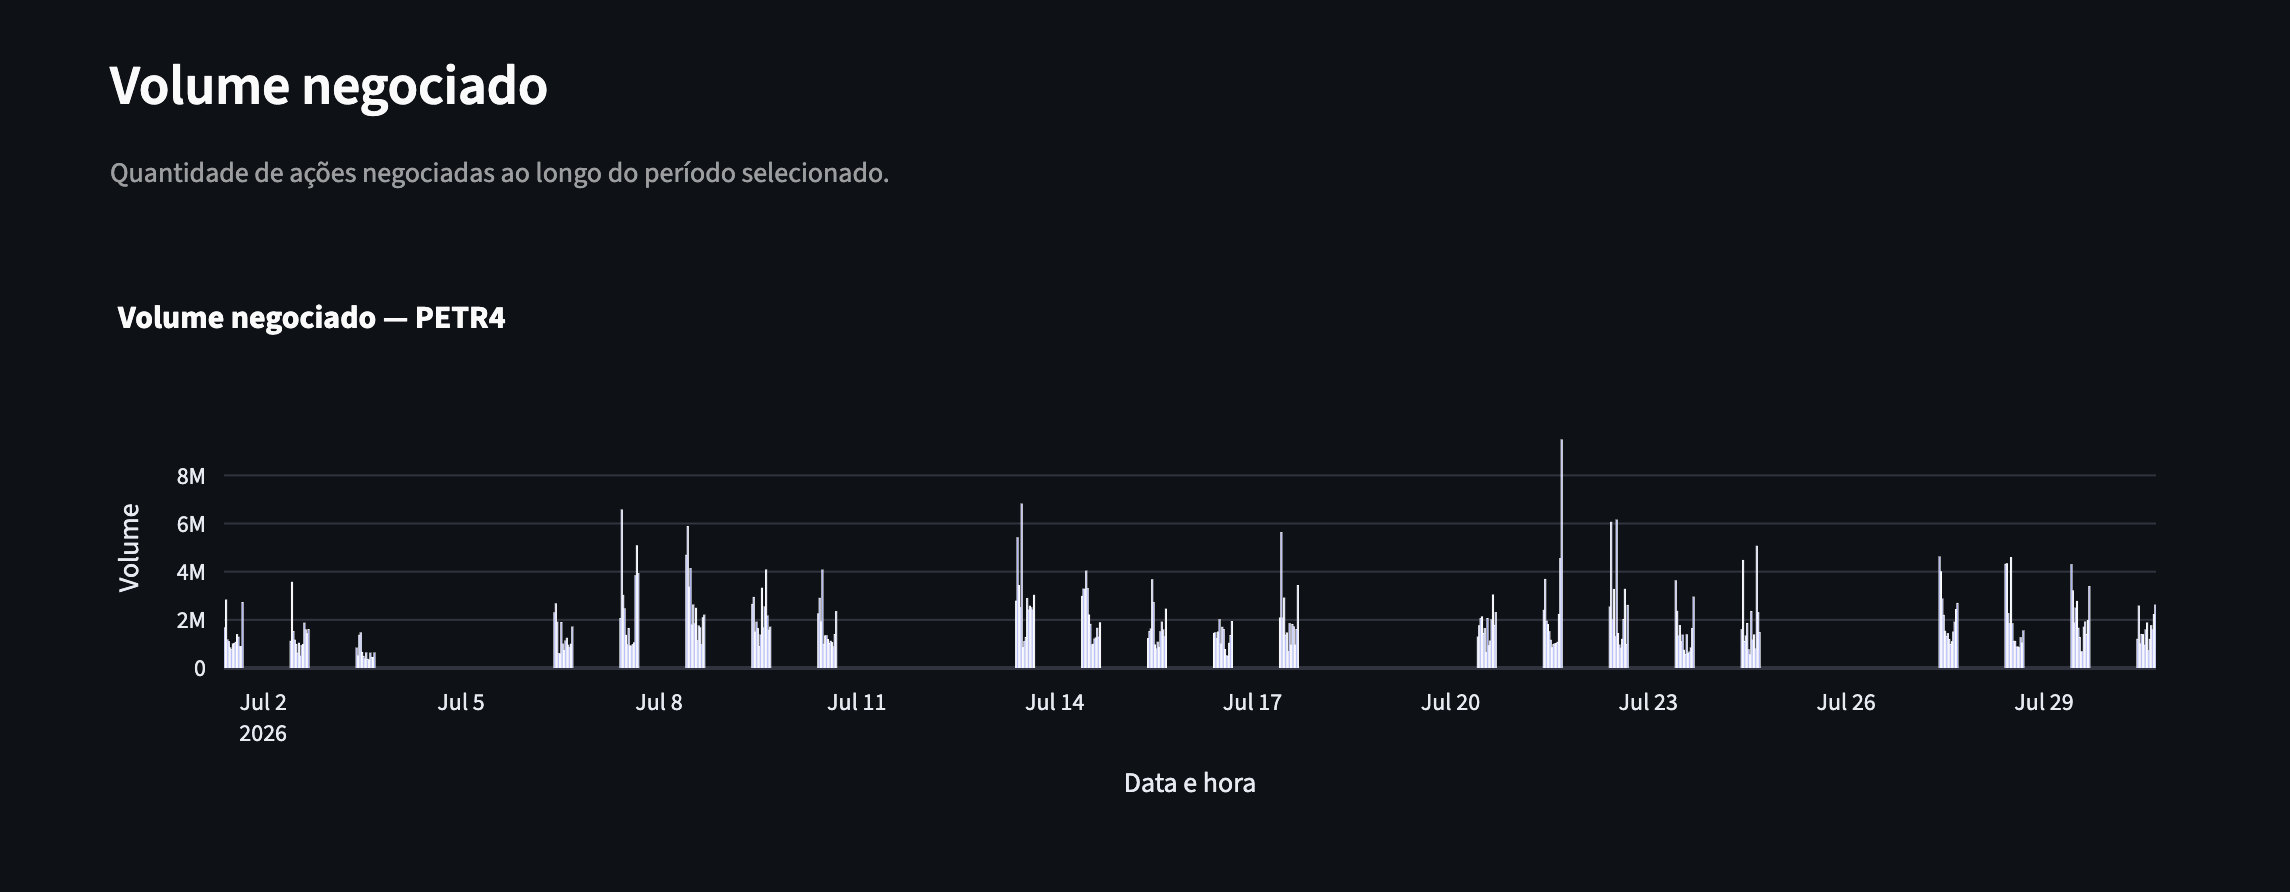
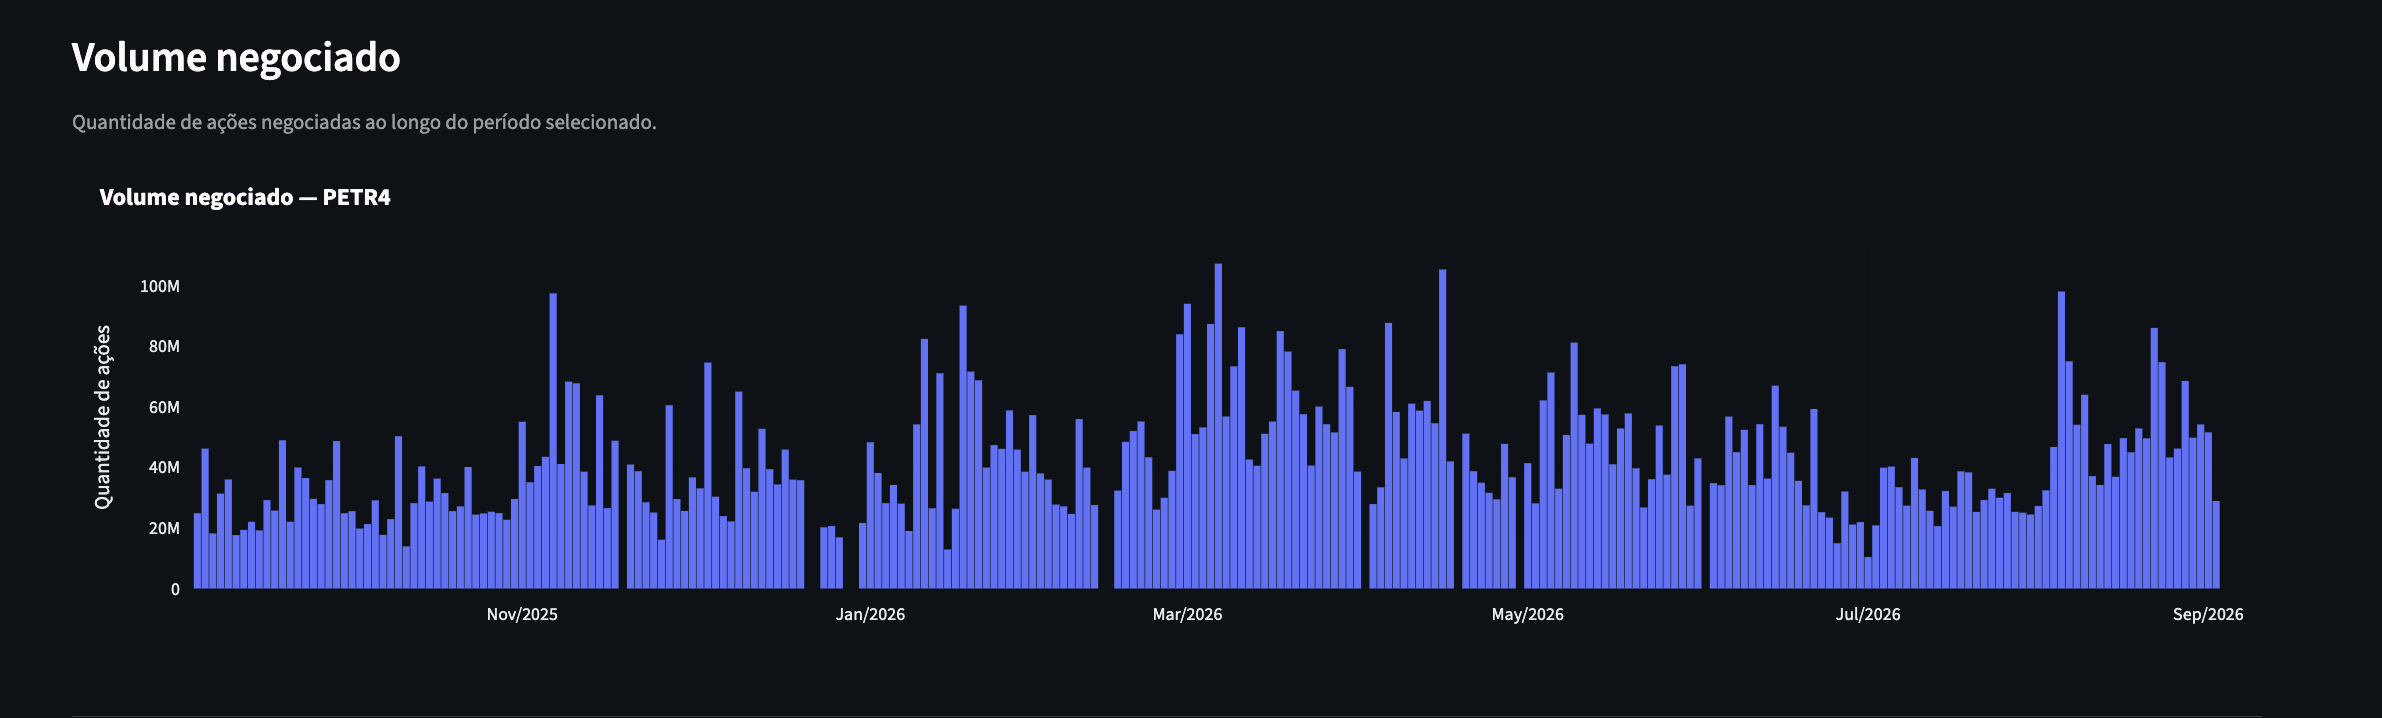
Atualiza README e imagens do B3 Insight

diff --git a/README.md b/README.md
@@ -1,217 +1,151 @@
 # B3 Insight
 
-Dashboard interativo desenvolvido em Python para análise de ações negociadas na B3.
+Dashboard interativo desenvolvido em **Python** para análise de ações negociadas na B3.
 
 O projeto permite consultar dados históricos de ações brasileiras, visualizar indicadores de desempenho, analisar gráficos financeiros e comparar o desempenho do ativo com o Ibovespa.
 
+🔗 **Aplicação online:** https://b3-insight.streamlit.app/
+
+---
+
 ## Dashboard
 
-![Dashboard](imagens/dashboard.png)
+Visão geral da aplicação com indicadores do período e informações da empresa.
 
-## Comparação com o Ibovespa
+![Dashboard B3 Insight](imagens/dashboard.png)
 
-![Comparação](imagens/comparacao.png)
+---
+
+## Análise gráfica
+
+Visualização da evolução do preço por meio de gráfico **Candlestick**, acompanhado das médias móveis de 20 e 50 períodos (**MM20 e MM50**).
+
+![Gráfico Candlestick](imagens/candlestick.png)
+
+---
 
 ## Volume negociado
 
-![Volume](imagens/volume.png)
+Visualização do volume de ações negociadas ao longo do período selecionado.
 
-## Sobre o projeto
+![Volume negociado](imagens/volume.png)
 
-O B3 Insight é um projeto pessoal desenvolvido para aplicar conhecimentos de Python, análise de dados e visualização de informações no contexto do mercado financeiro.
+---
 
-A aplicação utiliza dados do Yahoo Finance e apresenta as informações em um dashboard desenvolvido com Streamlit. O usuário pode informar o ticker de uma ação negociada na B3, selecionar o período desejado e visualizar indicadores, gráficos e informações da empresa.
+## Comparação com o Ibovespa
 
-O objetivo do projeto é facilitar a análise de ativos por meio de uma interface simples, organizada e interativa.
+Comparação do desempenho da ação selecionada com o índice **Ibovespa**, utilizando séries normalizadas para facilitar a análise relativa.
+
+![Comparação com o Ibovespa](imagens/comparacao.png)
+
+---
 
 ## Funcionalidades
 
 - Consulta de ações negociadas na B3
-- Seleção do período de análise
-- Exibição da última cotação
-- Cálculo da variação percentual
-- Identificação do preço máximo e mínimo
-- Cálculo do volume negociado
-- Exibição de informações da empresa
-- Cálculo das médias móveis de 20 e 50 períodos
-- Gráfico de candlestick
-- Gráfico de volume
+- Seleção de diferentes períodos de análise
+- Indicadores de cotação, variação, máxima, mínima e volume
+- Informações da empresa
+- Gráfico Candlestick
+- Médias móveis MM20 e MM50
+- Análise de volume negociado
 - Comparação de desempenho com o Ibovespa
-- Visualização dos dados históricos
-- Download dos dados em formato CSV
+- Visualização de dados históricos
+- Exportação dos dados para CSV
+
+---
 
 ## Tecnologias utilizadas
 
 - Python
-- Streamlit
 - Pandas
-- NumPy
 - Plotly
+- Streamlit
 - yfinance
+- Git
+- GitHub
+
+---
 
 ## Estrutura do projeto
 
 ```text
 B3-Insight/
-│
 ├── dados/
-│   └── b3_insight.csv
-│
 ├── imagens/
 │   ├── dashboard.png
-│   ├── comparacao.png
-│   └── volume.png
-│
-├── notebooks/
-│
+│   ├── candlestick.png
+│   ├── volume.png
+│   └── comparacao.png
 ├── src/
 │   ├── app.py
 │   ├── config.py
 │   ├── dados.py
 │   ├── graficos.py
 │   └── indicadores.py
-│
 ├── .gitignore
 ├── README.md
 └── requirements.txt
 ```
 
-### Organização dos arquivos
-
-| Arquivo | Responsabilidade |
-|---|---|
-| `app.py` | Interface do dashboard e fluxo principal da aplicação |
-| `config.py` | Configurações gerais do projeto |
-| `dados.py` | Coleta, preparação e limpeza dos dados |
-| `indicadores.py` | Cálculo dos indicadores e formatação dos resultados |
-| `graficos.py` | Construção dos gráficos interativos |
+---
 
 ## Como executar o projeto
 
-### 1. Clone o repositório
+Clone o repositório:
 
 ```bash
 git clone https://github.com/nataliaferreira-DS/B3-Insight.git
 ```
 
-### 2. Entre na pasta do projeto
+Entre na pasta do projeto:
 
 ```bash
 cd B3-Insight
 ```
 
-### 3. Crie um ambiente virtual
-
-No macOS ou Linux:
+Crie um ambiente virtual:
 
 ```bash
 python3 -m venv .venv
 ```
 
-No Windows:
-
-```bash
-python -m venv .venv
-```
-
-### 4. Ative o ambiente virtual
-
-No macOS ou Linux:
+Ative o ambiente virtual no macOS/Linux:
 
 ```bash
 source .venv/bin/activate
 ```
 
-No Windows:
+Instale as dependências:
 
 ```bash
-.venv\Scripts\activate
+python -m pip install -r requirements.txt
 ```
 
-### 5. Instale as dependências
+Execute a aplicação:
 
 ```bash
-pip install -r requirements.txt
+python -m streamlit run src/app.py
 ```
 
-### 6. Execute a aplicação
+---
 
-```bash
-streamlit run src/app.py
-```
+## Dados
 
-Após a execução, o Streamlit abrirá automaticamente o dashboard no navegador.
+Os dados de mercado são obtidos através da biblioteca **yfinance**.
 
-## Como utilizar
+Os dados exibidos podem sofrer atrasos ou alterações de acordo com a disponibilidade da fonte e são utilizados neste projeto para fins de estudo e análise.
 
-1. Informe o ticker da ação desejada.
-2. Escolha o período de análise.
-3. Clique em **Analisar ação**.
-4. Visualize os indicadores financeiros.
-5. Analise os gráficos.
-6. Consulte as informações da empresa.
-7. Faça o download dos dados, se desejar.
+---
 
-### Exemplos de tickers
+## Objetivo do projeto
 
-```text
-PETR4
-VALE3
-ITUB4
-BBAS3
-BBDC4
-```
+O **B3 Insight** foi desenvolvido como projeto de estudo e portfólio, aplicando conceitos de análise de dados, visualização de informações financeiras e desenvolvimento de dashboards interativos com Python.
 
-## Indicadores apresentados
-
-O dashboard calcula automaticamente:
-
-- Última cotação
-- Variação percentual
-- Preço máximo
-- Preço mínimo
-- Volume negociado
-
-Também são calculadas duas médias móveis:
-
-- MM20
-- MM50
-
-Esses indicadores auxiliam na análise do comportamento dos preços ao longo do período selecionado.
-
-## Comparação com o Ibovespa
-
-O desempenho da ação é comparado ao Ibovespa utilizando uma normalização com base inicial igual a 100.
-
-Essa abordagem permite comparar a evolução percentual das duas séries, independentemente dos seus valores absolutos.
-
-## Fonte dos dados
-
-Os dados históricos e as informações das empresas são obtidos por meio da biblioteca **yfinance**, que consulta informações disponibilizadas pelo Yahoo Finance.
-
-Os dados podem sofrer atrasos ou alterações na fonte original.
-
-Este projeto possui finalidade exclusivamente educacional e não constitui recomendação de investimento.
-
-## Melhorias futuras
-
-As próximas versões do projeto poderão incluir novas funcionalidades para ampliar as possibilidades de análise e tornar a experiência mais interativa, entre elas:
-
-- Comparação simultânea entre diferentes ações
-- Inclusão de novos indicadores técnicos, como RSI, MACD e Bandas de Bollinger
-- Simulação de estratégias de compra e venda para fins de análise
-- Heatmap dos horários com maior volume de negociações
-- Estatísticas de volatilidade, amplitude e volume por período
-- Novas ferramentas de análise e visualização dos dados
-- Geração de relatórios em PDF com os resultados da análise
-- Aprimoramento da experiência e da interface do dashboard
+---
 
 ## Autora
 
-**Natália Ferreira do Nascimento**
+**Natalia Ferreira DO Nascimento**
 
-Economista | Pós-graduanda em Ciência de Dados.
-
-## Licença
-
-Este projeto foi desenvolvido para fins de estudo e construção de portfólio.
+[GitHub](https://github.com/nataliaferreira-DS)
